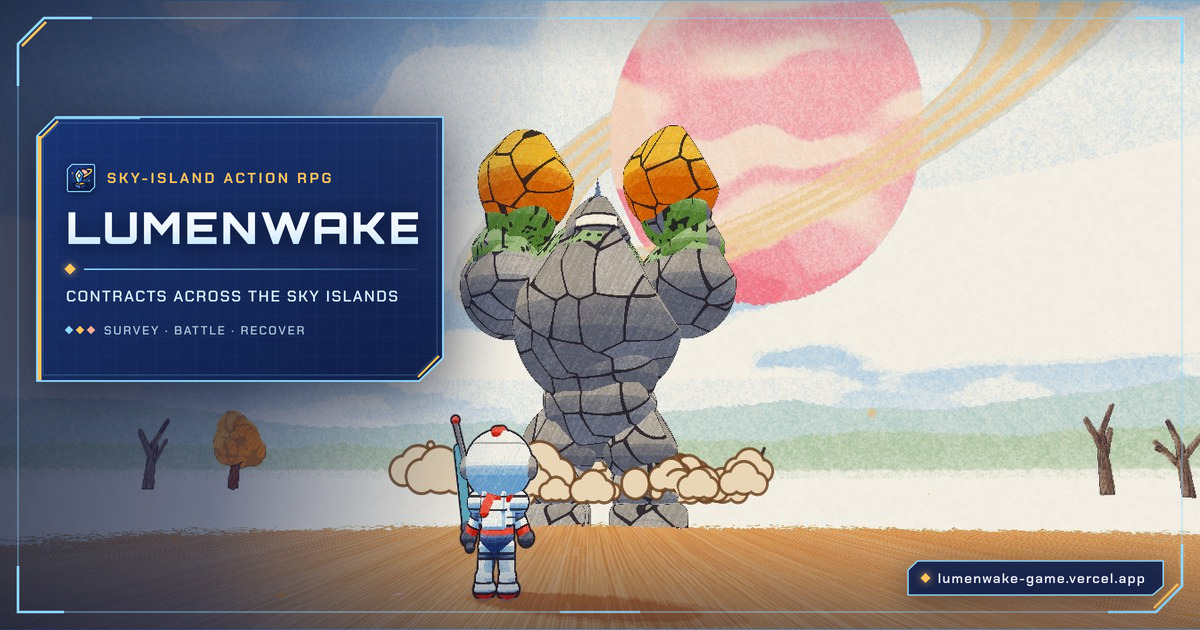
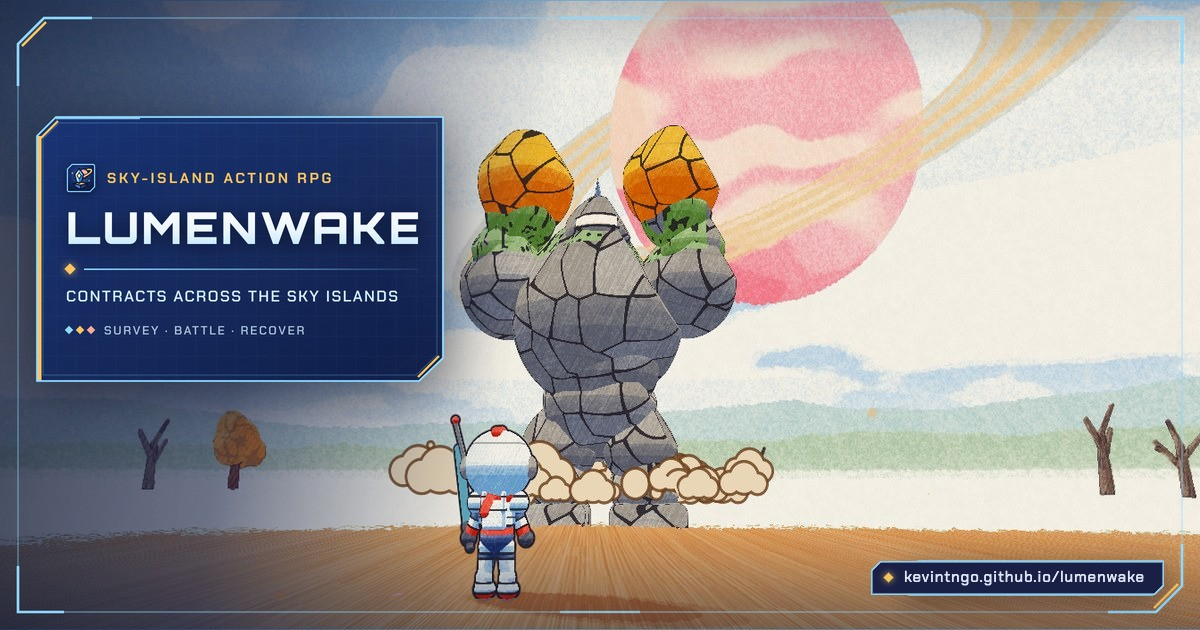
First steps for every new surveyor; share card points at GitHub Pages
First steps were remembered once per browser, so a second surveyor never
saw them. Each surveyor now carries its own `guided` flag: a new one
always starts the first steps, one who finished or skipped them is left
alone, and one who stopped partway picks them up again. Older saves
count as guided if they have run a contract or this browser had
finished the steps before.

The live game is at https://kevintngo.github.io/lumenwake/: the share
image's address badge, the page's canonical and share links, and the
README's play link now say so (the Vercel address was not deployed).

diff --git a/index.html b/index.html
@@ -5,7 +5,7 @@
 <meta name="viewport" content="width=device-width, initial-scale=1.0, viewport-fit=cover" />
 <title>Lumenwake — Sky-Island Action RPG</title>
 <meta name="description" content="Take a contract at Meridian Landing, drop to cel-shaded sky islands, and battle towering colossi room by room. A WebGL2 shader action RPG playable in the browser." />
-<link rel="canonical" href="https://lumenwake-game.vercel.app/" />
+<link rel="canonical" href="https://kevintngo.github.io/lumenwake/" />
 <meta name="theme-color" content="#14295f" />
 <link rel="icon" href="/favicon-32.png" sizes="32x32" type="image/png" />
 <link rel="icon" href="/favicon.svg" type="image/svg+xml" />
@@ -19,17 +19,17 @@
 <meta property="og:site_name" content="Lumenwake" />
 <meta property="og:title" content="Lumenwake — Sky-Island Action RPG" />
 <meta property="og:description" content="Take a contract at Meridian Landing, drop to cel-shaded sky islands, and battle towering colossi room by room. A WebGL2 shader action RPG playable in the browser." />
-<meta property="og:url" content="https://lumenwake-game.vercel.app/" />
-<meta property="og:image" content="https://lumenwake-game.vercel.app/og.jpg" />
+<meta property="og:url" content="https://kevintngo.github.io/lumenwake/" />
+<meta property="og:image" content="https://kevintngo.github.io/lumenwake/og.jpg" />
 <meta property="og:image:type" content="image/jpeg" />
 <meta property="og:image:width" content="1200" />
 <meta property="og:image:height" content="630" />
 <meta property="og:image:alt" content="A surveyor faces the towering Stone Warden colossus across a cel-shaded sky island beneath a ringed planet" />
 <meta name="twitter:card" content="summary_large_image" />
-<meta name="twitter:url" content="https://lumenwake-game.vercel.app/" />
+<meta name="twitter:url" content="https://kevintngo.github.io/lumenwake/" />
 <meta name="twitter:title" content="Lumenwake — Sky-Island Action RPG" />
 <meta name="twitter:description" content="Take a contract at Meridian Landing, drop to cel-shaded sky islands, and battle towering colossi room by room. A WebGL2 shader action RPG playable in the browser." />
-<meta name="twitter:image" content="https://lumenwake-game.vercel.app/og.jpg" />
+<meta name="twitter:image" content="https://kevintngo.github.io/lumenwake/og.jpg" />
 <meta name="twitter:image:alt" content="A surveyor faces the towering Stone Warden colossus across a cel-shaded sky island beneath a ringed planet" />
 <link rel="preconnect" href="https://fonts.googleapis.com" />
 <link rel="preconnect" href="https://fonts.gstatic.com" crossorigin />

diff --git a/src/app/tutorial-runner.ts b/src/app/tutorial-runner.ts
@@ -4,7 +4,6 @@ import type { GameEventMap } from '../types/events';
 import type { GameContext, TutorialLike } from '../types/game-context';
 import type { CameraGoal } from '../types/render';
 
-const KEY = 'lumenwake.firststeps';
 const LOOKAHEAD = 3;
 
 export class Tutorial implements TutorialLike {
@@ -49,24 +48,17 @@ export class Tutorial implements TutorialLike {
     return this.i >= 0 ? STEPS[this.i] : null;
   }
 
-  private seen(): boolean {
-    try {
-      return localStorage.getItem(KEY) === 'done' && !/[?&]firststeps\b/.test(location.search);
-    } catch {
-      return false;
-    }
+  /** first steps play for every new surveyor; one who finished or skipped them is left alone (?firststeps forces them) */
+  private begin(): void {
+    const s = this.game.player.sheet;
+    const forced = /[?&]firststeps\b/.test(location.search);
+    if (!forced && (s.guided || s.missions > 0)) return;
+    this.start();
   }
 
   private remember(): void {
-    try {
-      localStorage.setItem(KEY, 'done');
-    } catch {
-    }
-  }
-
-  private begin(): void {
-    if (this.seen() || this.game.player.sheet.missions > 0) return;
-    this.start();
+    this.game.player.sheet.guided = true;
+    this.game.save();
   }
 
   private start(): void {

diff --git a/src/app/save-store.ts b/src/app/save-store.ts
@@ -25,6 +25,14 @@ import type {
 import type { SaveStoreLike } from '../types/game-context';
 import type { GearItem, HeroSummary, PlayerSheet, SaveAccount, SaveHero } from '../types/sheet';
 
+const legacyGuided = (): boolean => {
+  try {
+    return localStorage.getItem('lumenwake.firststeps') === 'done';
+  } catch {
+    return false;
+  }
+};
+
 const VERSION = 1;
 const ACCOUNT = 'lumenwake.v1.account';
 const HERO = (id: string) => `lumenwake.v1.hero.${id}`;
@@ -179,6 +187,9 @@ function mendHero(raw: unknown): SaveHero | null {
   s.parts = int(r.parts, 0, 1e9, 0);
   s.relicDry = int(r.relicDry, 0, 99, 0);
   s.deepest = int(r.deepest, 0, 9999, 0);
+  // saves from before first steps were kept per surveyor: guided if they have run a contract, or if this
+  // browser had finished the first steps once (the old, shared flag)
+  s.guided = typeof r.guided === 'boolean' ? r.guided : s.missions > 0 || legacyGuided();
 
   const rawRelics = (r.relics && typeof r.relics === 'object' ? r.relics : {}) as Record<string, unknown>;
   for (const id of Object.keys(rawRelics)) {

diff --git a/src/types/sheet.ts b/src/types/sheet.ts
@@ -77,6 +77,8 @@ export interface PlayerSheet {
   relicDry: number;
   /** the deepest island chain cleared on any contract (1 is the contract itself) */
   deepest: number;
+  /** this surveyor has finished or skipped the first steps; every new surveyor starts without it */
+  guided: boolean;
   boon: BoonId | null;
 }
 

diff --git a/src/sim/character/stats.ts b/src/sim/character/stats.ts
@@ -86,6 +86,7 @@ export function newPlayerSheet(cls: ClassId = 'vanguard'): PlayerSheet {
     relics: {},
     relicDry: 0,
     deepest: 0,
+    guided: false,
     boon: null,
   };
 }

diff --git a/README.md b/README.md
@@ -2,7 +2,7 @@
 
 A cel-shaded sky-island action RPG rendered in raw WebGL2 shaders. Arrive by shuttle at Meridian Landing, choose your people and class, take contracts from the dispatcher, and fight across procedurally generated islands, underground vaults, and low-gravity moon shards against packs and towering colossi.
 
-**Play online:** [https://lumenwake-game.vercel.app](https://lumenwake-game.vercel.app)
+**Play online:** [https://kevintngo.github.io/lumenwake/](https://kevintngo.github.io/lumenwake/)
 
 ## Features
 
